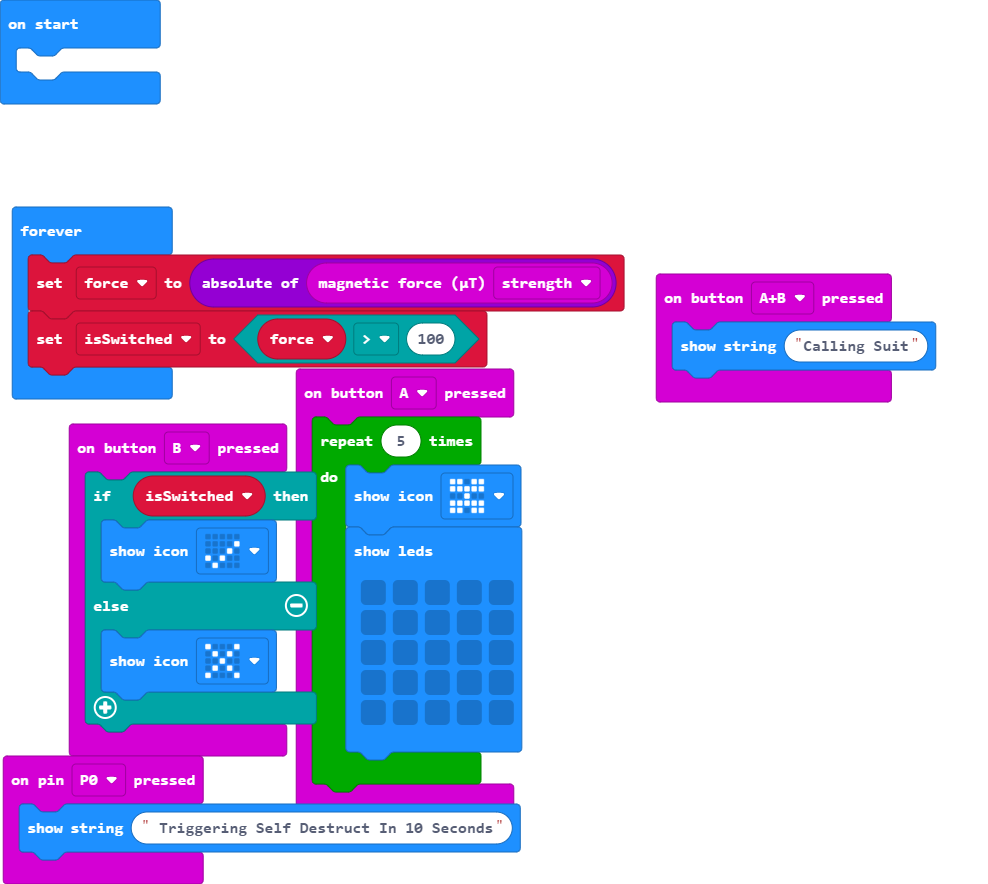
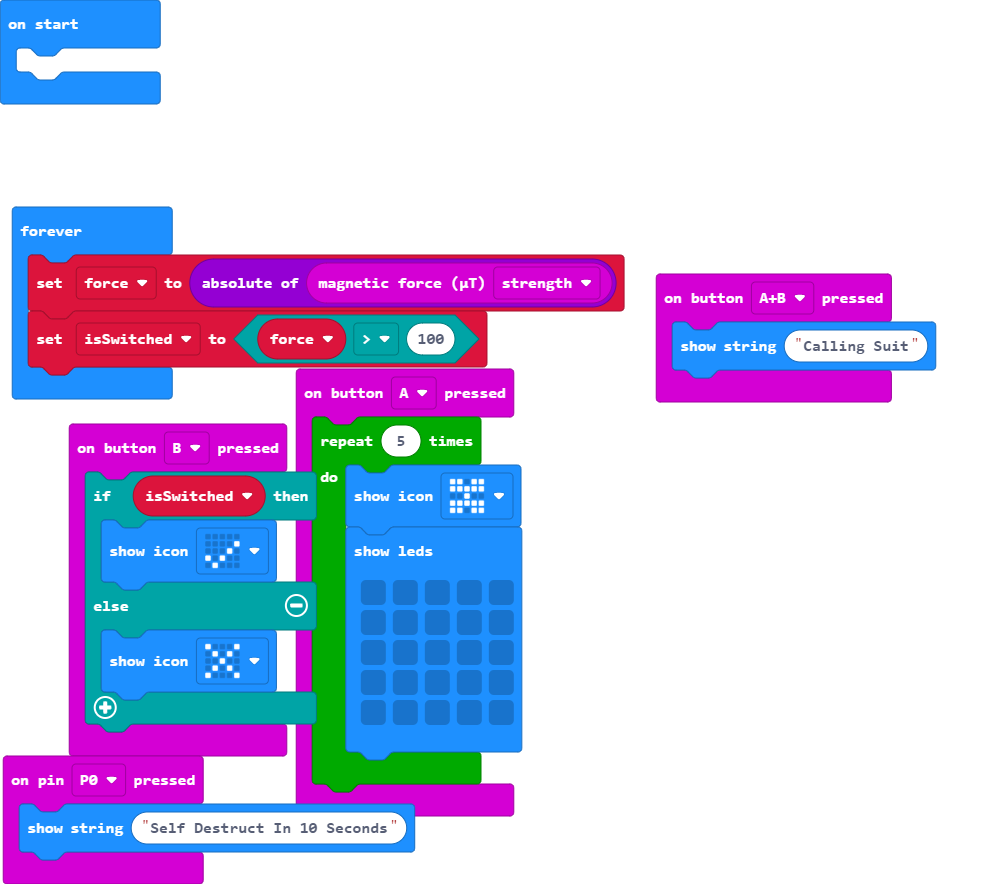
Update main.blocks, main.ts

Changed region(s): [[0.1518, 0.8857, 0.5466, 0.9774]]

diff --git a/main.ts b/main.ts
@@ -1,7 +1,7 @@
 let isSwitched = false
 let force = 0
 input.onPinPressed(TouchPin.P0, function () {
-    basic.showString(" Triggering Self Destruct In 10 Seconds")
+    basic.showString("Self Destruct In 10 Seconds")
 })
 input.onButtonPressed(Button.A, function () {
     for (let index = 0; index < 5; index++) {
